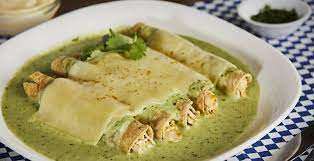
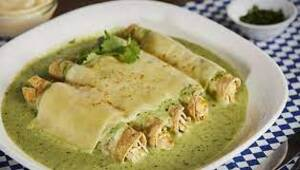
Add Pollo a la cacerola webpage

diff --git a/recipes/pollo-cacerola.html b/recipes/pollo-cacerola.html
@@ -8,5 +8,32 @@
 
     <body>
         <h1>Pollo a la cacerola</h1>
+        <img src="../images/pollo_cacerola.jpg" alt="Plato con pollo a la cacerola">
+
+        <h2>Descripción:</h2>
+        <p>Platillo delicioso, rápido y sencillo de preparar. Tiene varias verduras así que es una receta balanceada.</p>
+
+        <p>Se puede acompañar con arroz y totopos.</p>
+        <h2>Ingredientes (para 5 personas):</h2>
+        <ul>
+            <li>10 piezas de pollo</li>
+            <li>2 papas</li>
+            <li>2 zanahorias</li>
+            <li>1/2 cebolla</li>
+            <li>3 tomates</li>
+            <li>4 hojas de laurel</li>
+            <li>6 cucharadas de mantequilla</li>
+            <li>1/2 taza de agua</li>
+        </ul>
+
+        <h2>Procedimiento:</h2>
+        <ol>
+            <li>Partir zanahorias y papas en cuadros medianos</li>
+            <li>Partir cebolla y tomates en rajas</li>
+            <li>En una olla poner el pollo, verduras, agua y mantequilla</li>
+            <li>Con la olla tapada, dejar hervir a fuego medio hasta que el pollo este cocido</li>
+            <li>Agregar las hojas de laurel, tapar y volver a dejar hervir por 10 minutos más</li>
+            <li>Disfrutar!</li>
+        </ol>
     </body>
 </html>
